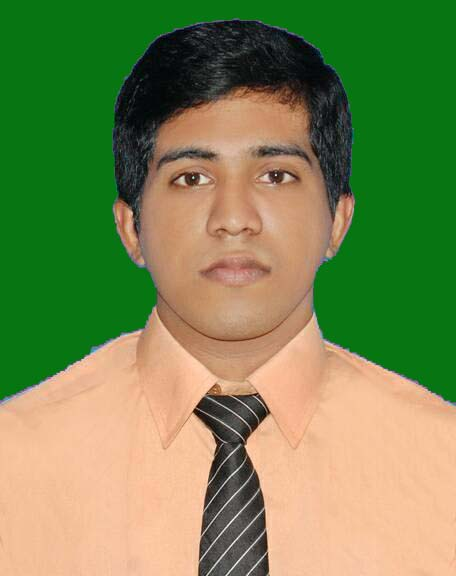
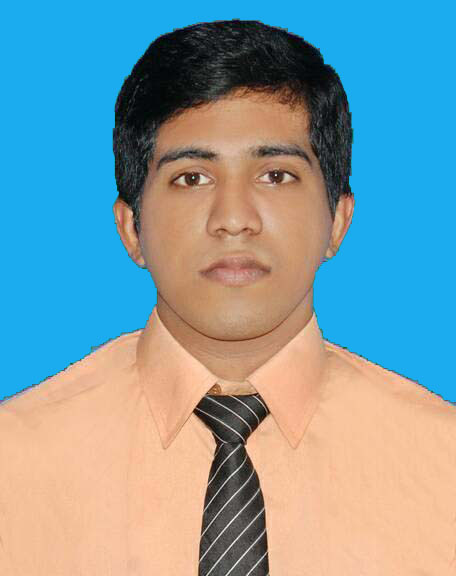
drak mode color change

diff --git a/src/Pages/Home/Banner/Banner.js b/src/Pages/Home/Banner/Banner.js
@@ -14,32 +14,32 @@ const Banner = () => {
         <div>
 {
     theme === "dark" ? 
-    <div className="darkBackgroundImage py-28 md:py-32 " >
+    <div className="darkBackgroundImage py-28 md:py-36 " >
 
 
             <div className="hero">
                 <div className="hero-content flex-col lg:flex-row-reverse justify-between">
                     <div className='relative'>
-                        <img src={darkimage} className="w-60  rounded-lg lg:ml-80  mb-0" alt='' />
+                        <img src={darkimage} className="w-64  rounded-lg lg:ml-80  mb-0" alt='' />
                     </div>
                     <div>
-                        <h1 className=" font-bold text-lg text-[#077612]">Hello, i'm</h1>
+                        <h1 className=" font-bold text-lg text-[#1bacef]">Hello, i'm</h1>
                         <h1 className="text-4xl md:text-6xl font-bold text-white">Lipton Barua</h1>
-                        <div className=' text-black mt-2 font-semibold'>
+                        <div className=' text-black mt-2 font-semibold text-white'>
                             Creative Web Designer & Full-Stack-Developer
                         </div>
                         <div className='mt-4'>
-                            <button className="text-[#077612] border border-[#077612] hover:bg-[#077612] hover:text-black  font-bold text-sm px-8 py-3 rounded-3xl outline-none  mr-1 mb-1 ease-linear transition-all duration-150" type="button">Hire Me</button>
-                            <a href='Lipton Barua Resume.pdf' download='Lipton Barua Resume.pdf'>   <button class="text-black border border-[#077612] hover:bg-[black] hover:text-[#077612] active:bg-[#077612] bg-[#077612] font-bold text-sm px-8 py-3 rounded-3xl  outline-none focus:outline-none mr-1 mb-1 ease-linear transition-all duration-150" type="button">Get Resume</button></a>
+                            <button className="text-[#1bacef] border border-[#1bacef] hover:bg-[#1bacef] hover:text-black  font-bold text-sm px-8 py-3 rounded-3xl outline-none  mr-1 mb-1 ease-linear transition-all duration-150" type="button">Hire Me</button>
+                            <a href='Lipton Barua Resume.pdf' download='Lipton Barua Resume.pdf'>   <button class="text-black border border-[#1bacef] hover:bg-[black] hover:text-[#1bacef] active:bg-[#1bacef] bg-[#1bacef] font-bold text-sm px-8 py-3 rounded-3xl  outline-none focus:outline-none mr-1 mb-1 ease-linear transition-all duration-150" type="button">Get Resume</button></a>
                         </div>
 
                         <div className='mt-3'>
                             <p>
                                 <div className='flex'>
                                   
-                                    <a href="https://www.linkedin.com/in/lipton-barua-2818b1259/" target='_blank' className='m-2 text-xl text-black bg-[#077612] p-1 rounded-full'><GrLinkedinOption></GrLinkedinOption></a>
-                                    <a href="https://github.com/LiptonBarua" target='_blank' className='m-2 text-xl text-black bg-[#077612] p-1 rounded-full'><GrGithub></GrGithub></a>
-                                    <a href="https://www.facebook.com/lipton.barua.33/" target='_blank' className='m-2 text-xl text-black bg-[#077612] p-1 rounded-full'><GrFacebookOption></GrFacebookOption></a>
+                                    <a href="https://www.linkedin.com/in/lipton-barua-2818b1259/" target='_blank' className='m-2 text-xl text-black bg-[#1bacef] p-1 rounded-full'><GrLinkedinOption></GrLinkedinOption></a>
+                                    <a href="https://github.com/LiptonBarua" target='_blank' className='m-2 text-xl text-black bg-[#1bacef] p-1 rounded-full'><GrGithub></GrGithub></a>
+                                    <a href="https://www.facebook.com/lipton.barua.33/" target='_blank' className='m-2 text-xl text-black bg-[#1bacef] p-1 rounded-full'><GrFacebookOption></GrFacebookOption></a>
                                 </div>
                             </p>
                         </div>
@@ -50,13 +50,13 @@ const Banner = () => {
         </div>
 
         :
-        <div className="backgroundImage py-28 md:py-32 " >
+        <div className="backgroundImage py-28 md:py-36 " >
 
 
             <div className="hero">
                 <div className="hero-content flex-col lg:flex-row-reverse justify-between">
                     <div className='relative'>
-                        <img src={image} className="w-60  rounded-lg lg:ml-80  mb-0" alt='' />
+                        <img src={image} className="w-64  rounded-lg lg:ml-80  mb-0" alt='' />
                     </div>
                     <div>
                         <h1 className=" font-bold text-lg text-[navy]">Hello, i'm</h1>

diff --git a/src/Pages/Home/EmailContactForm/EmailContactForm.js b/src/Pages/Home/EmailContactForm/EmailContactForm.js
@@ -24,18 +24,18 @@ const EmailContactForm = () => {
         toast.success('message success')
     }
     return (
-        <div className='bg-[#e6ebf6] dark:bg-[#0f0a03] py-20' id='contact'>
+        <div className='bg-[#e6ebf6] dark:bg-[#08051d] py-20' id='contact'>
            <section className="py-6  dark:text-gray-50">
 	<div className="grid max-w-6xl grid-cols-1 px-6 mx-auto lg:px-8 md:grid-cols-2">
 		<div className="py-6 md:py-0 md:px-6">
-            <p className="pt-2 pb-4 text-[navy] dark:text-[#077612] font-bold">Contact Me</p>
+            <p className="pt-2 pb-4 text-[navy] dark:text-[#1bacef] font-bold">Contact Me</p>
 			<h1 className="text-4xl text-black dark:text-white pb-4 font-bold">Get in Touch</h1>
 			<div className="space-y-4">
                 	<p className="flex items-center">
 					<svg xmlns="http://www.w3.org/2000/svg" viewBox="0 0 20 20" fill="currentColor" className="w-5 h-5 mr-2 sm:mr-6">
 						<path d="M2 3a1 1 0 011-1h2.153a1 1 0 01.986.836l.74 4.435a1 1 0 01-.54 1.06l-1.548.773a11.037 11.037 0 006.105 6.105l.774-1.548a1 1 0 011.059-.54l4.435.74a1 1 0 01.836.986V17a1 1 0 01-1 1h-2C7.82 18 2 12.18 2 5V3z"></path>
 					</svg>
-					<span>01638776808</span>
+					<span>+8801638776808</span>
 				</p>
 				<p className="flex items-center">
 					<svg xmlns="http://www.w3.org/2000/svg" viewBox="0 0 20 20" fill="currentColor" className="w-5 h-5 mr-2 sm:mr-6">
@@ -59,12 +59,12 @@ const EmailContactForm = () => {
                                         <p>Name</p>
                                         <input className='block w-full p-2 rounded-md shadow-sm focus:ring focus:ring-opacity-75 focus:ring-violet-400 ' type="text" name='user_name' placeholder="Name" required />
                                     </div>
-                                    <div>
+                                    <div className='my-2'>
                                         <p>Email</p>
                                         <input className='block w-full p-2 rounded-md shadow-sm focus:ring focus:ring-opacity-75 focus:ring-violet-400 ' type="email" name='user_email' placeholder="Email" required />
                                     </div>
 
-                                    <div>
+                                    <div className='mb-2'>
                                         <p>Phone</p>
                                         <input className='block w-full p-2 rounded-md shadow-sm focus:ring focus:ring-opacity-75 focus:ring-violet-400 ' type="phone" name="user_phone" placeholder="Phone" required />
                                     </div>
@@ -73,7 +73,7 @@ const EmailContactForm = () => {
                                         <textarea className='block w-full pl-2 rounded-md shadow-sm focus:ring focus:ring-opacity-75 focus:ring-violet-400 ' rows="4" name='message' placeholder="Message" required></textarea>
                                     </div>
                                     <div className='mt-3'>
-                                        <button className='text-white border border-[navy] bg-[navy] dark:border-[#077612] dark:bg-[#077612] dark:text-black font-bold uppercase text-xs px-7 py-3 rounded  mr-1 mb-1'>Submit</button>
+                                        <button className='text-white border border-[navy] bg-[navy] dark:border-[#1bacef] dark:bg-[#1bacef] dark:text-black font-bold uppercase text-xs px-7 py-3 rounded  mr-1 mb-1'>Submit</button>
 
                                     </div>
 

diff --git a/src/Pages/Home/About/About.js b/src/Pages/Home/About/About.js
@@ -15,14 +15,14 @@ const About = () => {
                         src="https://assets10.lottiefiles.com/packages/lf20_s2vaal7n.json"></Player>
                     <div className='md:ml-40 dark:text-white'>
 
-                        <h1 className=" font-bold text-[navy] dark:text-[#077612]">About Us</h1>
+                        <h1 className=" font-bold text-[navy] dark:text-[#1bacef]">About Us</h1>
                         <h2 className='font-bold text-xl md:text-2xl'>I am Creative Full Stack Developer</h2>
                         <p className="py-6 text-justify">I am a full stack developer. I can provide clean code and pixel perfect designs. I make the website more interactive with web animations. I can provide clean code and pixel perfect designs. I also make the website more interactive with web animations. A responsive design makes your website accessible to all users, regardless of their devices</p>
                         {/* <Link to='/'><button className="btn bg-gradient-to-r from-violet-500 to-fuchsia-500 hover:from-pink-500 hover:to-yellow-500 text-black">Get Started</button></Link> */}
                         <div>
                         
-                            <a href='Lipton Barua CV.pdf' download='Lipton Barua CV.pdf'><button className="text-[navy] border border-[navy] hover:bg-[navy] hover:text-white dark:text-[#077612] dark:border-[#077612] dark:hover:bg-[#077612] dark:hover:text-black font-bold uppercase text-xs px-4 py-3 rounded outline-none  mr-1 mb-1 ease-linear transition-all duration-150" type="button">Download CV</button></a>
-                            <a href='Lipton Barua Resume.pdf' download='Lipton Barua Resume.pdf'><button className="text-[navy] border border-[navy] hover:bg-[navy] hover:text-white dark:text-[#077612] dark:border-[#077612] dark:hover:bg-[#077612] dark:hover:text-black font-bold uppercase text-xs px-4 py-3 rounded outline-none  ml-1 mb-1 ease-linear transition-all duration-150" type="button">Download Resume</button></a>
+                            <a href='Lipton Barua CV.pdf' download='Lipton Barua CV.pdf'><button className="text-[navy] border border-[navy] hover:bg-[navy] hover:text-white dark:text-[#1bacef] dark:border-[#1bacef] dark:hover:bg-[#1bacef] dark:hover:text-black font-bold uppercase text-xs px-4 py-3 rounded outline-none  mr-1 mb-1 ease-linear transition-all duration-150" type="button">Download CV</button></a>
+                            <a href='Lipton Barua Resume.pdf' download='Lipton Barua Resume.pdf'><button className="text-[navy] border border-[navy] hover:bg-[navy] hover:text-white dark:text-[#1bacef] dark:border-[#1bacef] dark:hover:bg-[#1bacef] dark:hover:text-black font-bold uppercase text-xs px-4 py-3 rounded outline-none  ml-1 mb-1 ease-linear transition-all duration-150" type="button">Download Resume</button></a>
                         </div>
                     </div>
                 </div>

diff --git a/src/Pages/Shareit/Navbar/Navbar.js b/src/Pages/Shareit/Navbar/Navbar.js
@@ -39,19 +39,19 @@ const Navbar = () => {
 	}
 
  const manuItem=<>
- <li><Link to='/' className='text-gray-600 hover:text-[navy] dark:text-white dark:hover:text-[#077612] font-semibold'>Home</Link></li>
- <li><a href='Lipton Barua Resume.pdf' className='text-gray-600 hover:text-[navy] dark:text-white dark:hover:text-[#077612] font-semibold' download='Lipton Barua Resume.pdf'>Resume</a></li>
- <li><a href='#about'  className='text-gray-600 hover:text-[navy] dark:text-white dark:hover:text-[#077612] font-semibold'>About</a></li>
- <li><a href='#skill'  className='text-gray-600 hover:text-[navy] dark:text-white dark:hover:text-[#077612] font-semibold'>Skill</a></li>
- <li><a href='#contact'  className='text-gray-600 hover:text-[navy] dark:text-white dark:hover:text-[#077612] font-semibold'>Contact</a></li>
+ <li><Link to='/' className='text-gray-600 hover:text-[navy] dark:text-white dark:hover:text-[#1bacef] font-semibold'>Home</Link></li>
+ <li><a href='Lipton Barua Resume.pdf' className='text-gray-600 hover:text-[navy] dark:text-white dark:hover:text-[#1bacef] font-semibold' download='Lipton Barua Resume.pdf'>Resume</a></li>
+ <li><a href='#about'  className='text-gray-600 hover:text-[navy] dark:text-white dark:hover:text-[#1bacef] font-semibold'>About</a></li>
+ <li><a href='#skill'  className='text-gray-600 hover:text-[navy] dark:text-white dark:hover:text-[#1bacef] font-semibold'>Skill</a></li>
+ <li><a href='#contact'  className='text-gray-600 hover:text-[navy] dark:text-white dark:hover:text-[#1bacef] font-semibold'>Contact</a></li>
  </>
 
     return (
         <div className=''>
-           <div className="bg-[#DDE4F8] dark:bg-black shadow-sm navbar lg:px-12 fixed right-0 top-0 z-40">
+           <div className="bg-[#DDE4F8] dark:bg-[#050312] dark:border-b-2 dark:border-[#0c072b] shadow-sm navbar lg:px-12 fixed right-0 top-0 z-40">
   <div className="navbar-start">
  
-    <Link className="btn btn-ghost normal-case text-xl text-[navy] dark:text-[#077612] font-bold">Mission</Link>
+    <Link className="btn btn-ghost normal-case text-xl text-[navy] dark:text-[#1bacef] font-bold">Mission</Link>
   </div>
   <div className="navbar-end">
     <ul className="hidden lg:flex menu menu-horizontal text-sm px-1 uppercase">

diff --git a/src/Pages/Home/CardProject/CardProject.js b/src/Pages/Home/CardProject/CardProject.js
@@ -8,15 +8,15 @@ const CardProjects = ({ card }) => {
    console.log(image1)
     return (
         <div data-aos="flip-up">
-            <div className="card card-compact bg-base-100 shadow-3xl ">
+            <div className="card card-compact bg-base-100 dark:bg-[#0f0a03] shadow-3xl ">
                 <figure><img src={image1} alt="" /></figure>
-                <div className="card-body mt-4">
-                    <h2 className="card-title">{website_name}</h2>
-                    <a href={website} target="_blank"> <button className="bg-[navy] text-white dark:bg-[#077612] dark:text-black py-2 px-3 w-full">Live Site</button></a>
+                <div className="card-body my-6">
+                    <h2 className="card-title dark:text-white">{website_name}</h2>
+                    <a href={website} target="_blank"> <button className="bg-[navy] text-white dark:bg-[#1bacef] dark:text-black py-2 px-3 w-full">Live Site</button></a>
                   
                     <div className="flex justify-between ">
-                        <a href={githubClient}> <button className="bg-[navy] text-white dark:bg-[#077612] dark:text-black py-2 px-3 w-full">Github Client</button></a>
-                        <a href={githubServer}> <button className="bg-[navy] text-white dark:bg-[#077612] dark:text-black py-2 px-3 w-full">Github Server</button></a>
+                        <a href={githubClient}> <button className="bg-[navy] text-white dark:bg-[#1bacef] dark:text-black py-2 px-3 w-full">Github Client</button></a>
+                        <a href={githubServer}> <button className="bg-[navy] text-white dark:bg-[#1bacef] dark:text-black py-2 px-3 w-full">Github Server</button></a>
                         
                     </div>
                     {/* <Link to={`/product/${_id}`}><button className="bg-[navy] text-white py-2 px-3 w-full">Project Details</button></Link> */}

diff --git a/src/Pages/Shareit/Footer/Footer.js b/src/Pages/Shareit/Footer/Footer.js
@@ -8,10 +8,10 @@ const Footer = () => {
   return (
     <footer className="footer items-center p-4 px-4 lg:px-16 py-16">
     <div className="">
-     <h1 className='font-bold text-xl text-[navy] dark:text-[#077612]'>Mission</h1> 
+     <h1 className='font-bold text-xl text-[navy] dark:text-[#1bacef]'>Mission</h1> 
       <p className='dark:text-white'>Copyright © 2023 - All right reserved by ACME Industries Ltd</p>
     </div> 
-    <div className="grid-flow-col gap-4 md:place-self-center md:justify-self-end text-[#15154b] dark:text-[#077612]">
+    <div className="grid-flow-col gap-4 md:place-self-center md:justify-self-end text-[#15154b] dark:text-[#1bacef]">
      <Link><svg xmlns="http://www.w3.org/2000/svg" width="24" height="24" viewBox="0 0 24 24" className="fill-current"><path d="M24 4.557c-.883.392-1.832.656-2.828.775 1.017-.609 1.798-1.574 2.165-2.724-.951.564-2.005.974-3.127 1.195-.897-.957-2.178-1.555-3.594-1.555-3.179 0-5.515 2.966-4.797 6.045-4.091-.205-7.719-2.165-10.148-5.144-1.29 2.213-.669 5.108 1.523 6.574-.806-.026-1.566-.247-2.229-.616-.054 2.281 1.581 4.415 3.949 4.89-.693.188-1.452.232-2.224.084.626 1.956 2.444 3.379 4.6 3.419-2.07 1.623-4.678 2.348-7.29 2.04 2.179 1.397 4.768 2.212 7.548 2.212 9.142 0 14.307-7.721 13.995-14.646.962-.695 1.797-1.562 2.457-2.549z"></path></svg>
       </Link> 
      <Link><svg xmlns="http://www.w3.org/2000/svg" width="24" height="24" viewBox="0 0 24 24" className="fill-current"><path d="M19.615 3.184c-3.604-.246-11.631-.245-15.23 0-3.897.266-4.356 2.62-4.385 8.816.029 6.185.484 8.549 4.385 8.816 3.6.245 11.626.246 15.23 0 3.897-.266 4.356-2.62 4.385-8.816-.029-6.185-.484-8.549-4.385-8.816zm-10.615 12.816v-8l8 3.993-8 4.007z"></path></svg></Link>

diff --git a/src/Pages/Home/Home/Home.js b/src/Pages/Home/Home/Home.js
@@ -16,8 +16,8 @@ const Home = () => {
             <About className='lg:max-w-[90%] mx-auto'></About>
             <Skill></Skill>
             <SmallBanner></SmallBanner>
-            <div className='px-4 lg:px-0  lg:max-w-[90%] mx-auto'>
-             <h1 className='uppercase text-[navy] dark:text-[#077612] font-semibold'>My Works</h1>
+            <div className='px-4 lg:px-0 my-24 lg:max-w-[90%] mx-auto'>
+             <h1 className='uppercase text-[navy] dark:text-[#1bacef] font-semibold'>My Works</h1>
              <h2 className='text-2xl font-bold text-black dark:text-white'>Latest Project</h2>
             <div className='grid grid-cols-1  md:grid-cols-2 lg:grid-cols-3 gap-8 my-10'>
               {

diff --git a/src/Pages/ProductDetails/ProductData/ProductData.js b/src/Pages/ProductDetails/ProductData/ProductData.js
@@ -8,7 +8,7 @@ const ProductData = ({ productCategorie }) => {
             <div className="cardDetails shadow-xl">
                 <figure><img src={productCategorie.image} alt="" /></figure>
                 <div className="card-body">
-                    <h2 className="card-title text-2xl text-[#077612]">{productCategorie.website_name}</h2>
+                    <h2 className="card-title text-2xl text-[#1bacef]">{productCategorie.website_name}</h2>
                     <p className='text-justify'>{productCategorie.question}</p>
 
                 </div>

diff --git a/src/Pages/Home/SmallBanner/SmallBanner.css b/src/Pages/Home/SmallBanner/SmallBanner.css
@@ -1,9 +1,9 @@
 .bannerDesign{
-    background-image: url('../../../assets/Image/Black Modern Geometric Quotes Twitter Header.png');
+    background-image: url('../../../assets/Image/wBlack\ Modern\ Geometric\ Quotes\ Twitter\ Header.png');
     background-repeat: no-repeat;
     
 }
 .darkBannerDesign{
-    background-image: url('../../../assets/Image/dBlack Modern Geometric Quotes Twitter Header.png');
+    background-image: url('../../../assets/Image/Black Modern Geometric Quotes Twitter Header.png');
     background-repeat: no-repeat;   
 }

diff --git a/src/Pages/Home/Skill/Skill.js b/src/Pages/Home/Skill/Skill.js
@@ -9,7 +9,7 @@ const Skill = () => {
 
     return (
         <div className='mx-4 lg:max-w-[90%] lg:mx-auto py-24' id='skill'>
-          <h1 className='text-center divider dark:text-[#077612] text-2xl md:text-3xl mt-24'>My Skill</h1>
+          <h1 className='text-center divider dark:text-[#1bacef] text-2xl md:text-3xl mt-24'>My Skill</h1>
     <div className=" grid md:grid-cols-2 dark:text-white">
       <p className="skl"></p>
       <p className="skl sklLine">_________</p>

diff --git a/src/Pages/Home/Skill/Skill.css b/src/Pages/Home/Skill/Skill.css
@@ -9,7 +9,7 @@
     bottom: 8px;
     visibility: hidden;
     padding-left: 6px;
-    color: greenyellow;
+    color: #1bacef;
 }
   .ProgWidth {
     padding: 0px 20px 0 0;
@@ -27,7 +27,7 @@
   .darkSkillBar {
     display: block;
     height: 15px;
-    background-color: #077612;
+    background-color: #1bacef;
   }
   .p {
     display: flex;

diff --git a/src/Pages/Home/Banner/Banner.css b/src/Pages/Home/Banner/Banner.css
@@ -14,7 +14,7 @@
 
 }
 .darkBackgroundImage{
-    background: url('../../../assets/Image/dFuturistic Modern Zoom Virtual Background.png');
+    background: url('../../../assets/Image/Minimalist tech company zoom virtual background.png');
     position: relative;
     background-size: cover;
     /* height: 700px; */
